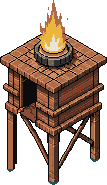
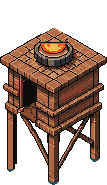
fix(merveilles): deux feux la ou il n en fallait qu un
AIGUILLE RANG I (era_mega-t1). Le sprite portait une FLAMME CUITE en ocre pale,
plus grande que l overlay anime pose par-dessus : on voyait deux feux, le peint
depassant de l anime. La flamme cuite est retiree ; il ne reste que le LIT DE
BRAISES au creux de la vasque, seul element de feu qu un sprite ait le droit de
garder. L ancre descend en consequence — assise DANS les braises (y=50) et non
sur le bord (y=47), largeur un cran sous la bouche du brasero (22 px pour 25) :
un feu qui deborde de son foyer lit comme un decalque.

Retirer le feu cuit crevait le decor derriere ; recopie calee, pas de trou.

Garde ajoutee dans flameHue : 181 px de braises mesures, plancher a la moitie.
Si un remap l eteint, la vasque redevient un seau vide sous une flamme
flottante, et rien d autre ne le dirait.

MAUSOLEE (dynasty1, t2). Deux ancres etaient posees sur la PORTE DOREE (88,78 et
86,91) — le piege de l or, le meme que --blob-key dans reflame.mjs : la porte, l
escalier et un brasero partagent la teinte, seule la TAILLE de la tache les
separe. Une flamme brulait dans l entree. t2 ne garde que ses 2 vrais braseros.

1713 tests verts, 1 skippe, lint propre.

Changed region(s): [[0.3364, 0.0, 0.6729, 0.2973], [0.6168, 0.0811, 0.6449, 0.1081]]

diff --git a/src/game/map/__tests__/flameHue.test.js b/src/game/map/__tests__/flameHue.test.js
@@ -72,6 +72,13 @@ const FIRE_SPRITES = [
   // recouverts par un overlay animé. Repeindre les seuls overlays laissait donc
   // une moitié du monument en or à côté de l'autre en rouge.
   ['wonders/dynasty1-t5.png', 2000],
+  // Aiguille rang I (2026-08-07) : le sprite portait une FLAMME CUITE en ocre
+  // pâle que l'overlay animé, plus petit qu'elle, ne recouvrait pas — on voyait
+  // deux feux. Elle a été retirée et il ne reste que le LIT DE BRAISES au creux
+  // du brasero, seul élément de feu que le sprite ait le droit de garder. 181 px
+  // mesurés → plancher à la moitié : si un remap l'éteint, la vasque redevient
+  // un seau vide sous une flamme flottante, et rien d'autre ne le dirait.
+  ['wonders/era_mega-t1.png', 90],
 ];
 
 const rampSet = new Set(RAMP.steps.map((s) => s.hex.toLowerCase()));
